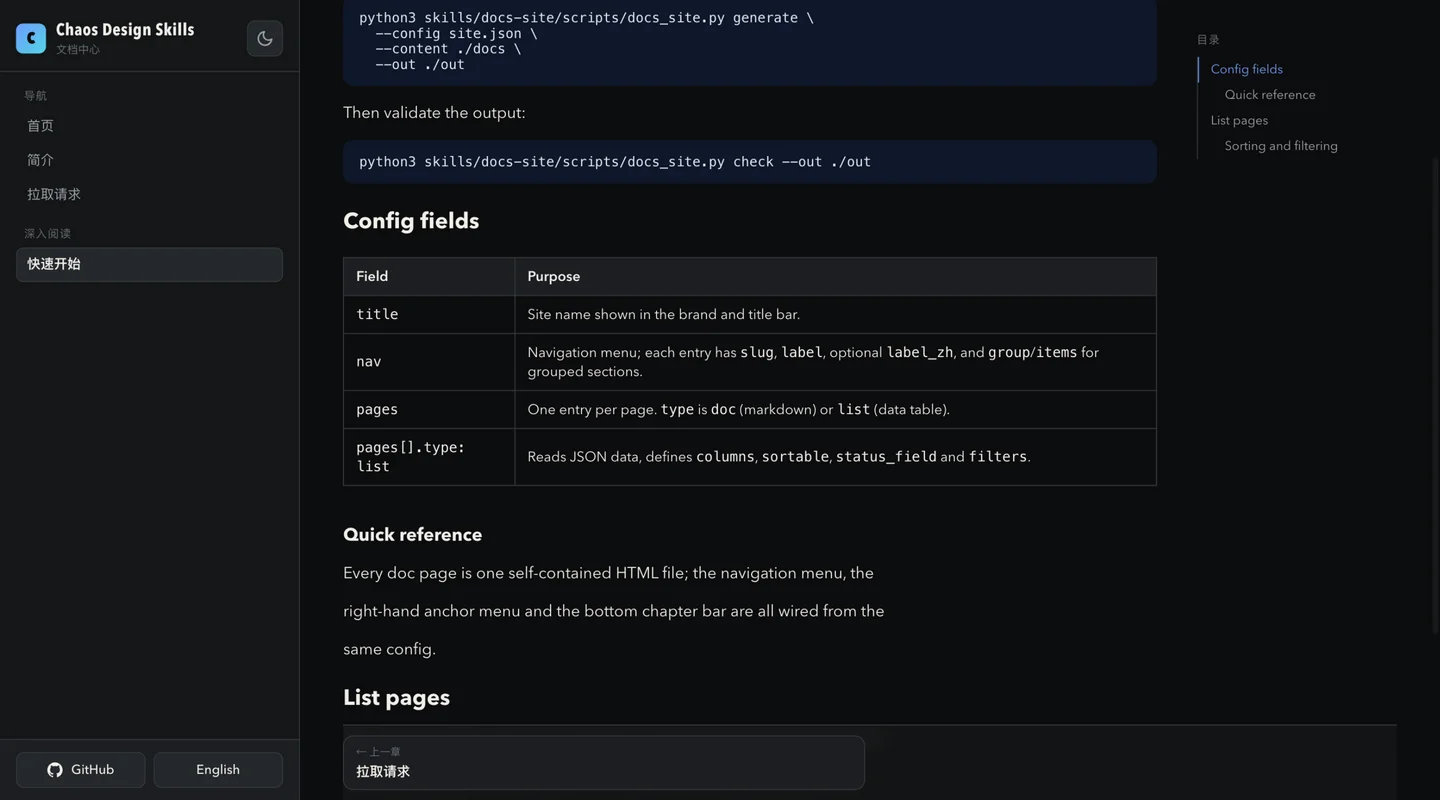
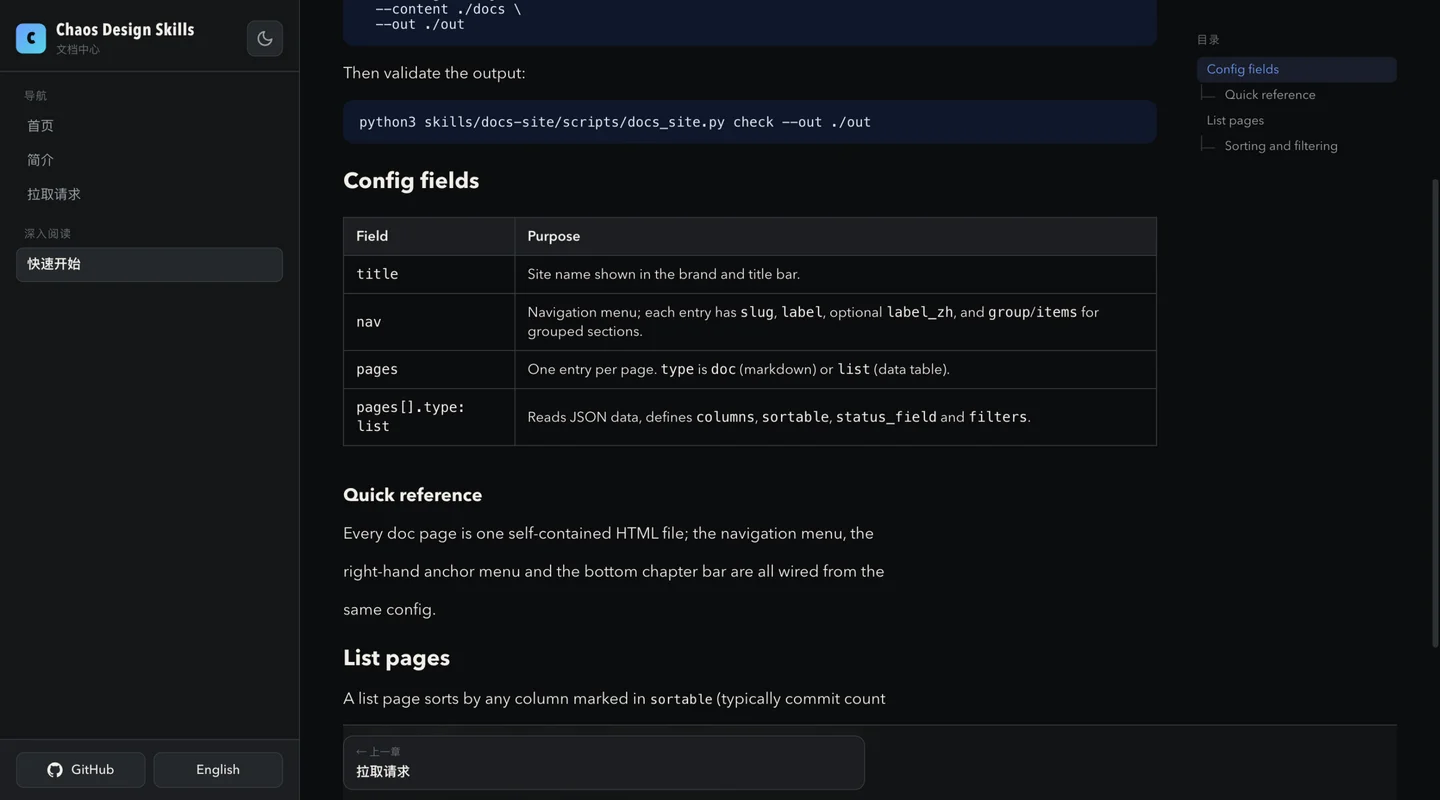
feat(docs-site): tree-style toc connectors, roomier page end, dark site default
- The toc rail nests h3/h4 into a real tree: a vertical guide drops from
  each parent entry and turns into a short elbow connector per child (with
  the elbow accenting when the child is active), replacing the flat
  padding-only indent. Active entries get a soft pill highlight instead of
  a border.
- The content column gains more bottom padding on desktop (48px) and
  mobile (64px) so the end of the page breathes above the fixed chapter
  bar.
- The skills site defaults to the dark palette for first-time visitors:
  the no-flash script and the appearance switch both fall back to dark
  instead of the OS preference; an explicit "system" choice still follows
  the OS.

desktop-toc-pager screenshot re-captured with the tree connectors;
quick-start keeps h3 sections for the levels; site data re-synced.

diff --git a/tests/docs-site/introduction.html b/tests/docs-site/introduction.html
@@ -93,7 +93,7 @@ svg.theme-icon-sun{display:none}
 .header-github:focus-visible,.nav-link:focus-visible{outline:2px solid var(--accent);outline-offset:2px}
 /* content: owns its scrollbar, spans the available column */
 .content{height:100%;min-height:0;overflow-y:auto;overscroll-behavior:contain;
-  padding:0 0 28px}
+  padding:0 0 48px}
 .content-inner{padding:clamp(20px,3vw,56px);padding-top:32px}
 .crumb{font-family:var(--mono);font-size:12px;color:var(--faint);margin-bottom:10px}
 .page-title{font-size:clamp(26px,4vw,40px);line-height:1.1;margin:4px 0 10px;font-weight:750}
@@ -105,15 +105,22 @@ svg.theme-icon-sun{display:none}
 .toc{position:sticky;top:32px;font-size:12.5px;min-width:0}
 .toc-title{font-family:var(--mono);font-size:11px;color:var(--faint);
   text-transform:uppercase;letter-spacing:.08em;margin-bottom:10px}
-.toc-list{list-style:none;margin:0;padding:0;border-left:1px solid var(--line);
+.toc-list{list-style:none;margin:0;padding:0;
   max-height:calc(100vh - 170px);overflow-y:auto}
-.toc-list a{display:block;padding:4px 0 4px 12px;color:var(--muted);
-  border-left:2px solid transparent;margin-left:-1px;line-height:1.4;
-  overflow:hidden;text-overflow:ellipsis;white-space:nowrap}
-.toc-list a:hover{color:var(--ink);text-decoration:none}
-.toc-list a.is-active{color:var(--accent);border-left-color:var(--accent)}
-.toc-list .toc-l3 a{padding-left:26px}
-.toc-list .toc-l4 a{padding-left:40px}
+.toc-list li{position:relative}
+.toc-list a{display:block;padding:4px 8px 4px 10px;color:var(--muted);
+  border-radius:6px;line-height:1.4;overflow:hidden;text-overflow:ellipsis;
+  white-space:nowrap}
+.toc-list a:hover{color:var(--ink);background:var(--surface-2);text-decoration:none}
+.toc-list a.is-active{color:var(--accent);background:rgba(111,157,255,.12)}
+/* nested levels: a vertical guide drops from the parent entry and turns
+   into a short elbow connector for every child (折线, not plain indent) */
+.toc-sub{list-style:none;margin:0;padding-left:18px;position:relative}
+.toc-sub::before{content:'';position:absolute;left:4px;top:2px;bottom:8px;
+  width:1px;background:var(--line)}
+.toc-sub>li::before{content:'';position:absolute;left:-14px;top:14px;
+  width:14px;height:1px;background:var(--line)}
+.toc-sub>li:has(>a.is-active)::before{background:var(--accent)}
 /* bottom prev/next chapter pager: a fixed bar under the content column.
    Fixed (not sticky) so it sits on its own compositor layer and never
    jitters with content scrolling; frosted blur + a single top hairline
@@ -284,7 +291,7 @@ blockquote{border-left:3px solid var(--accent);margin:12px 0;padding:6px 14px;
   .toc{display:none}
   .page-pager{left:0;right:0;padding:8px 20px calc(8px + env(safe-area-inset-bottom))}
   .pager-empty{display:none}
-  .content{padding-bottom:44px}
+  .content{padding-bottom:64px}
 }
 @media (max-width:600px){
   .list-filter input{width:100%}
@@ -382,8 +389,7 @@ blockquote{border-left:3px solid var(--accent);margin:12px 0;padding:6px 14px;
 <blockquote>Click any diagram to open it in the lightbox and zoom it to the viewport.</blockquote>
         <div class='lightbox' role='dialog' aria-modal='true'><div class='lightbox-head'><div class='lb-title' data-i18n='diagram'>Diagram</div><button class='lb-btn' data-lb-fit data-i18n-title='fit' aria-label='Fit'><svg viewBox='0 0 24 24' fill='none' stroke='currentColor' stroke-width='2' stroke-linecap='round' stroke-linejoin='round' aria-hidden='true'><path d='M4 9V4h5M15 4h5v5M20 15v5h-5M9 20H4v-5'/></svg></button><button class='lb-btn' data-lb-plus data-i18n-title='zoomIn' aria-label='Zoom in'><svg viewBox='0 0 24 24' fill='none' stroke='currentColor' stroke-width='2' stroke-linecap='round' aria-hidden='true'><path d='M12 5v14M5 12h14'/></svg></button><button class='lb-btn' data-lb-minus data-i18n-title='zoomOut' aria-label='Zoom out'><svg viewBox='0 0 24 24' fill='none' stroke='currentColor' stroke-width='2' stroke-linecap='round' aria-hidden='true'><path d='M5 12h14'/></svg></button><button class='lb-btn' data-lb-close data-i18n-title='close' aria-label='Close'><svg viewBox='0 0 24 24' fill='none' stroke='currentColor' stroke-width='2' stroke-linecap='round' aria-hidden='true'><path d='M6 6l12 12M18 6 6 18'/></svg></button></div><div class='lightbox-stage'></div></div>
       </div>
-      <aside class='toc'><div class='toc-title' data-i18n='toc'>目录</div><ul class='toc-list'><li class='toc-l2'><a href='#what-you-get' data-toc-link='what-you-get'>What you get</a></li>
-<li class='toc-l2'><a href='#design-language' data-toc-link='design-language'>Design language</a></li></ul></aside>
+      <aside class='toc'><div class='toc-title' data-i18n='toc'>目录</div><ul class='toc-list'><li><a href='#what-you-get' data-toc-link='what-you-get'>What you get</a></li><li><a href='#design-language' data-toc-link='design-language'>Design language</a></li></ul></aside>
     </div>
   </main>
 </div>

diff --git a/tests/docs-site/quick-start.html b/tests/docs-site/quick-start.html
@@ -93,7 +93,7 @@ svg.theme-icon-sun{display:none}
 .header-github:focus-visible,.nav-link:focus-visible{outline:2px solid var(--accent);outline-offset:2px}
 /* content: owns its scrollbar, spans the available column */
 .content{height:100%;min-height:0;overflow-y:auto;overscroll-behavior:contain;
-  padding:0 0 28px}
+  padding:0 0 48px}
 .content-inner{padding:clamp(20px,3vw,56px);padding-top:32px}
 .crumb{font-family:var(--mono);font-size:12px;color:var(--faint);margin-bottom:10px}
 .page-title{font-size:clamp(26px,4vw,40px);line-height:1.1;margin:4px 0 10px;font-weight:750}
@@ -105,15 +105,22 @@ svg.theme-icon-sun{display:none}
 .toc{position:sticky;top:32px;font-size:12.5px;min-width:0}
 .toc-title{font-family:var(--mono);font-size:11px;color:var(--faint);
   text-transform:uppercase;letter-spacing:.08em;margin-bottom:10px}
-.toc-list{list-style:none;margin:0;padding:0;border-left:1px solid var(--line);
+.toc-list{list-style:none;margin:0;padding:0;
   max-height:calc(100vh - 170px);overflow-y:auto}
-.toc-list a{display:block;padding:4px 0 4px 12px;color:var(--muted);
-  border-left:2px solid transparent;margin-left:-1px;line-height:1.4;
-  overflow:hidden;text-overflow:ellipsis;white-space:nowrap}
-.toc-list a:hover{color:var(--ink);text-decoration:none}
-.toc-list a.is-active{color:var(--accent);border-left-color:var(--accent)}
-.toc-list .toc-l3 a{padding-left:26px}
-.toc-list .toc-l4 a{padding-left:40px}
+.toc-list li{position:relative}
+.toc-list a{display:block;padding:4px 8px 4px 10px;color:var(--muted);
+  border-radius:6px;line-height:1.4;overflow:hidden;text-overflow:ellipsis;
+  white-space:nowrap}
+.toc-list a:hover{color:var(--ink);background:var(--surface-2);text-decoration:none}
+.toc-list a.is-active{color:var(--accent);background:rgba(111,157,255,.12)}
+/* nested levels: a vertical guide drops from the parent entry and turns
+   into a short elbow connector for every child (折线, not plain indent) */
+.toc-sub{list-style:none;margin:0;padding-left:18px;position:relative}
+.toc-sub::before{content:'';position:absolute;left:4px;top:2px;bottom:8px;
+  width:1px;background:var(--line)}
+.toc-sub>li::before{content:'';position:absolute;left:-14px;top:14px;
+  width:14px;height:1px;background:var(--line)}
+.toc-sub>li:has(>a.is-active)::before{background:var(--accent)}
 /* bottom prev/next chapter pager: a fixed bar under the content column.
    Fixed (not sticky) so it sits on its own compositor layer and never
    jitters with content scrolling; frosted blur + a single top hairline
@@ -284,7 +291,7 @@ blockquote{border-left:3px solid var(--accent);margin:12px 0;padding:6px 14px;
   .toc{display:none}
   .page-pager{left:0;right:0;padding:8px 20px calc(8px + env(safe-area-inset-bottom))}
   .pager-empty{display:none}
-  .content{padding-bottom:44px}
+  .content{padding-bottom:64px}
 }
 @media (max-width:600px){
   .list-filter input{width:100%}
@@ -395,10 +402,7 @@ blockquote{border-left:3px solid var(--accent);margin:12px 0;padding:6px 14px;
 <p>value. The live count reflects the current filters.</p>
         
       </div>
-      <aside class='toc'><div class='toc-title' data-i18n='toc'>目录</div><ul class='toc-list'><li class='toc-l2'><a href='#config-fields' data-toc-link='config-fields'>Config fields</a></li>
-<li class='toc-l3'><a href='#quick-reference' data-toc-link='quick-reference'>Quick reference</a></li>
-<li class='toc-l2'><a href='#list-pages' data-toc-link='list-pages'>List pages</a></li>
-<li class='toc-l3'><a href='#sorting-and-filtering' data-toc-link='sorting-and-filtering'>Sorting and filtering</a></li></ul></aside>
+      <aside class='toc'><div class='toc-title' data-i18n='toc'>目录</div><ul class='toc-list'><li><a href='#config-fields' data-toc-link='config-fields'>Config fields</a><ul class='toc-sub'><li><a href='#quick-reference' data-toc-link='quick-reference'>Quick reference</a></li></ul></li><li><a href='#list-pages' data-toc-link='list-pages'>List pages</a><ul class='toc-sub'><li><a href='#sorting-and-filtering' data-toc-link='sorting-and-filtering'>Sorting and filtering</a></li></ul></li></ul></aside>
     </div>
   </main>
 </div>

diff --git a/tests/docs-site/pull-requests.html b/tests/docs-site/pull-requests.html
@@ -93,7 +93,7 @@ svg.theme-icon-sun{display:none}
 .header-github:focus-visible,.nav-link:focus-visible{outline:2px solid var(--accent);outline-offset:2px}
 /* content: owns its scrollbar, spans the available column */
 .content{height:100%;min-height:0;overflow-y:auto;overscroll-behavior:contain;
-  padding:0 0 28px}
+  padding:0 0 48px}
 .content-inner{padding:clamp(20px,3vw,56px);padding-top:32px}
 .crumb{font-family:var(--mono);font-size:12px;color:var(--faint);margin-bottom:10px}
 .page-title{font-size:clamp(26px,4vw,40px);line-height:1.1;margin:4px 0 10px;font-weight:750}
@@ -105,15 +105,22 @@ svg.theme-icon-sun{display:none}
 .toc{position:sticky;top:32px;font-size:12.5px;min-width:0}
 .toc-title{font-family:var(--mono);font-size:11px;color:var(--faint);
   text-transform:uppercase;letter-spacing:.08em;margin-bottom:10px}
-.toc-list{list-style:none;margin:0;padding:0;border-left:1px solid var(--line);
+.toc-list{list-style:none;margin:0;padding:0;
   max-height:calc(100vh - 170px);overflow-y:auto}
-.toc-list a{display:block;padding:4px 0 4px 12px;color:var(--muted);
-  border-left:2px solid transparent;margin-left:-1px;line-height:1.4;
-  overflow:hidden;text-overflow:ellipsis;white-space:nowrap}
-.toc-list a:hover{color:var(--ink);text-decoration:none}
-.toc-list a.is-active{color:var(--accent);border-left-color:var(--accent)}
-.toc-list .toc-l3 a{padding-left:26px}
-.toc-list .toc-l4 a{padding-left:40px}
+.toc-list li{position:relative}
+.toc-list a{display:block;padding:4px 8px 4px 10px;color:var(--muted);
+  border-radius:6px;line-height:1.4;overflow:hidden;text-overflow:ellipsis;
+  white-space:nowrap}
+.toc-list a:hover{color:var(--ink);background:var(--surface-2);text-decoration:none}
+.toc-list a.is-active{color:var(--accent);background:rgba(111,157,255,.12)}
+/* nested levels: a vertical guide drops from the parent entry and turns
+   into a short elbow connector for every child (折线, not plain indent) */
+.toc-sub{list-style:none;margin:0;padding-left:18px;position:relative}
+.toc-sub::before{content:'';position:absolute;left:4px;top:2px;bottom:8px;
+  width:1px;background:var(--line)}
+.toc-sub>li::before{content:'';position:absolute;left:-14px;top:14px;
+  width:14px;height:1px;background:var(--line)}
+.toc-sub>li:has(>a.is-active)::before{background:var(--accent)}
 /* bottom prev/next chapter pager: a fixed bar under the content column.
    Fixed (not sticky) so it sits on its own compositor layer and never
    jitters with content scrolling; frosted blur + a single top hairline
@@ -284,7 +291,7 @@ blockquote{border-left:3px solid var(--accent);margin:12px 0;padding:6px 14px;
   .toc{display:none}
   .page-pager{left:0;right:0;padding:8px 20px calc(8px + env(safe-area-inset-bottom))}
   .pager-empty{display:none}
-  .content{padding-bottom:44px}
+  .content{padding-bottom:64px}
 }
 @media (max-width:600px){
   .list-filter input{width:100%}

diff --git a/site/src/components/theme-init.tsx b/site/src/components/theme-init.tsx
@@ -3,14 +3,14 @@
 import Script from "next/script";
 
 // Runs before hydration so the stored theme and language are applied on the
-// first paint: `theme` is "light" | "dark" | "system" (absent or "system"
-// follows the OS), `lang` is "en" | "zh". localStorage wins in both cases;
-// only a first-time visitor gets the OS/browser preference.
+// first paint: `theme` is "light" | "dark" | "system", `lang` is "en" | "zh".
+// localStorage wins; a first-time visitor (no stored choice) gets the dark
+// palette, and an explicit "system" choice keeps following the OS.
 const THEME_INIT = `(function () {
   try {
     var stored = localStorage.getItem("theme");
     var systemDark = window.matchMedia("(prefers-color-scheme: dark)").matches;
-    var isDark = stored === "dark" ? true : stored === "light" ? false : systemDark;
+    var isDark = stored === "light" ? false : stored === "system" ? systemDark : true;
     document.documentElement.classList.toggle("dark", isDark);
 
     var lang = localStorage.getItem("lang");

diff --git a/site/src/components/theme-switch.tsx b/site/src/components/theme-switch.tsx
@@ -52,13 +52,15 @@ const OPTIONS: {
  */
 export function ThemeSwitch({ className }: { className?: string }) {
   const { t } = useI18n();
-  const [theme, setTheme] = useState<Theme>("system");
+  // First-time visitors default to dark; an explicit "system" choice keeps
+  // following the OS (the no-flash script owns the same default).
+  const [theme, setTheme] = useState<Theme>("dark");
   const [mounted, setMounted] = useState(false);
 
   // Layout effect, not a passive one: the stored choice has to be reflected in
   // this control before the first paint, not one frame later.
   useIsomorphicLayoutEffect(() => {
-    setTheme(readStored() ?? "system");
+    setTheme(readStored() ?? "dark");
     setMounted(true);
   }, []);
 

diff --git a/skills/docs-site/scripts/docs_site.py b/skills/docs-site/scripts/docs_site.py
@@ -382,26 +382,39 @@ def build_toc_html(body_html, toc_label):
     """Right-rail mini TOC built from the page's h2/h3/h4 anchors.
 
     Rendered only when the page has at least two headings; list pages have
-    none and simply omit the rail. Heading markup is already escaped once,
-    so the extracted text keeps its entities.
+    none and simply omit the rail. The entries nest into a tree (h3 under
+    the preceding h2, h4 under the preceding h3) so the CSS can draw elbow
+    connectors per level. Heading markup is already escaped once, so the
+    extracted text keeps its entities.
     """
     items = []
     for m in re.finditer(r"<h([234]) id='([^']+)'[^>]*>(.*?)</h\1>", body_html):
         text = re.sub(r"<[^>]+>", "", m.group(3)).strip()
         if text:
-            items.append((m.group(1), m.group(2), text))
+            items.append((int(m.group(1)), m.group(2), text))
     if len(items) < 2:
         return ""
-    lis = []
-    for lvl, hid, text in items:
-        lis.append(
-            "<li class='toc-l%s'><a href='#%s' data-toc-link='%s'>%s</a></li>"
-            % (lvl, hid, hid, text)
-        )
+
+    def render(start, end, level):
+        lis = []
+        i = start
+        while i < end:
+            lvl, hid, text = items[i]
+            j = i + 1
+            while j < end and items[j][0] > level:
+                j += 1
+            entry = "<a href='#%s' data-toc-link='%s'>%s</a>" % (hid, hid, text)
+            if j > i + 1:
+                entry += "<ul class='toc-sub'>%s</ul>" % render(i + 1, j, level + 1)
+            lis.append("<li>%s</li>" % entry)
+            i = j
+        return "".join(lis)
+
+    lis = render(0, len(items), items[0][0])
     return (
         "<aside class='toc'><div class='toc-title' data-i18n='toc'>"
         + html.escape(toc_label)
-        + "</div><ul class='toc-list'>" + "\n".join(lis) + "</ul></aside>"
+        + "</div><ul class='toc-list'>" + lis + "</ul></aside>"
     )
 
 
@@ -719,7 +732,7 @@ svg.theme-icon-sun{display:none}
 .header-github:focus-visible,.nav-link:focus-visible{outline:2px solid var(--accent);outline-offset:2px}
 /* content: owns its scrollbar, spans the available column */
 .content{height:100%;min-height:0;overflow-y:auto;overscroll-behavior:contain;
-  padding:0 0 28px}
+  padding:0 0 48px}
 .content-inner{padding:clamp(20px,3vw,56px);padding-top:32px}
 .crumb{font-family:var(--mono);font-size:12px;color:var(--faint);margin-bottom:10px}
 .page-title{font-size:clamp(26px,4vw,40px);line-height:1.1;margin:4px 0 10px;font-weight:750}
@@ -731,15 +744,22 @@ svg.theme-icon-sun{display:none}
 .toc{position:sticky;top:32px;font-size:12.5px;min-width:0}
 .toc-title{font-family:var(--mono);font-size:11px;color:var(--faint);
   text-transform:uppercase;letter-spacing:.08em;margin-bottom:10px}
-.toc-list{list-style:none;margin:0;padding:0;border-left:1px solid var(--line);
+.toc-list{list-style:none;margin:0;padding:0;
   max-height:calc(100vh - 170px);overflow-y:auto}
-.toc-list a{display:block;padding:4px 0 4px 12px;color:var(--muted);
-  border-left:2px solid transparent;margin-left:-1px;line-height:1.4;
-  overflow:hidden;text-overflow:ellipsis;white-space:nowrap}
-.toc-list a:hover{color:var(--ink);text-decoration:none}
-.toc-list a.is-active{color:var(--accent);border-left-color:var(--accent)}
-.toc-list .toc-l3 a{padding-left:26px}
-.toc-list .toc-l4 a{padding-left:40px}
+.toc-list li{position:relative}
+.toc-list a{display:block;padding:4px 8px 4px 10px;color:var(--muted);
+  border-radius:6px;line-height:1.4;overflow:hidden;text-overflow:ellipsis;
+  white-space:nowrap}
+.toc-list a:hover{color:var(--ink);background:var(--surface-2);text-decoration:none}
+.toc-list a.is-active{color:var(--accent);background:rgba(111,157,255,.12)}
+/* nested levels: a vertical guide drops from the parent entry and turns
+   into a short elbow connector for every child (折线, not plain indent) */
+.toc-sub{list-style:none;margin:0;padding-left:18px;position:relative}
+.toc-sub::before{content:'';position:absolute;left:4px;top:2px;bottom:8px;
+  width:1px;background:var(--line)}
+.toc-sub>li::before{content:'';position:absolute;left:-14px;top:14px;
+  width:14px;height:1px;background:var(--line)}
+.toc-sub>li:has(>a.is-active)::before{background:var(--accent)}
 /* bottom prev/next chapter pager: a fixed bar under the content column.
    Fixed (not sticky) so it sits on its own compositor layer and never
    jitters with content scrolling; frosted blur + a single top hairline
@@ -910,7 +930,7 @@ blockquote{border-left:3px solid var(--accent);margin:12px 0;padding:6px 14px;
   .toc{display:none}
   .page-pager{left:0;right:0;padding:8px 20px calc(8px + env(safe-area-inset-bottom))}
   .pager-empty{display:none}
-  .content{padding-bottom:44px}
+  .content{padding-bottom:64px}
 }
 @media (max-width:600px){
   .list-filter input{width:100%}
